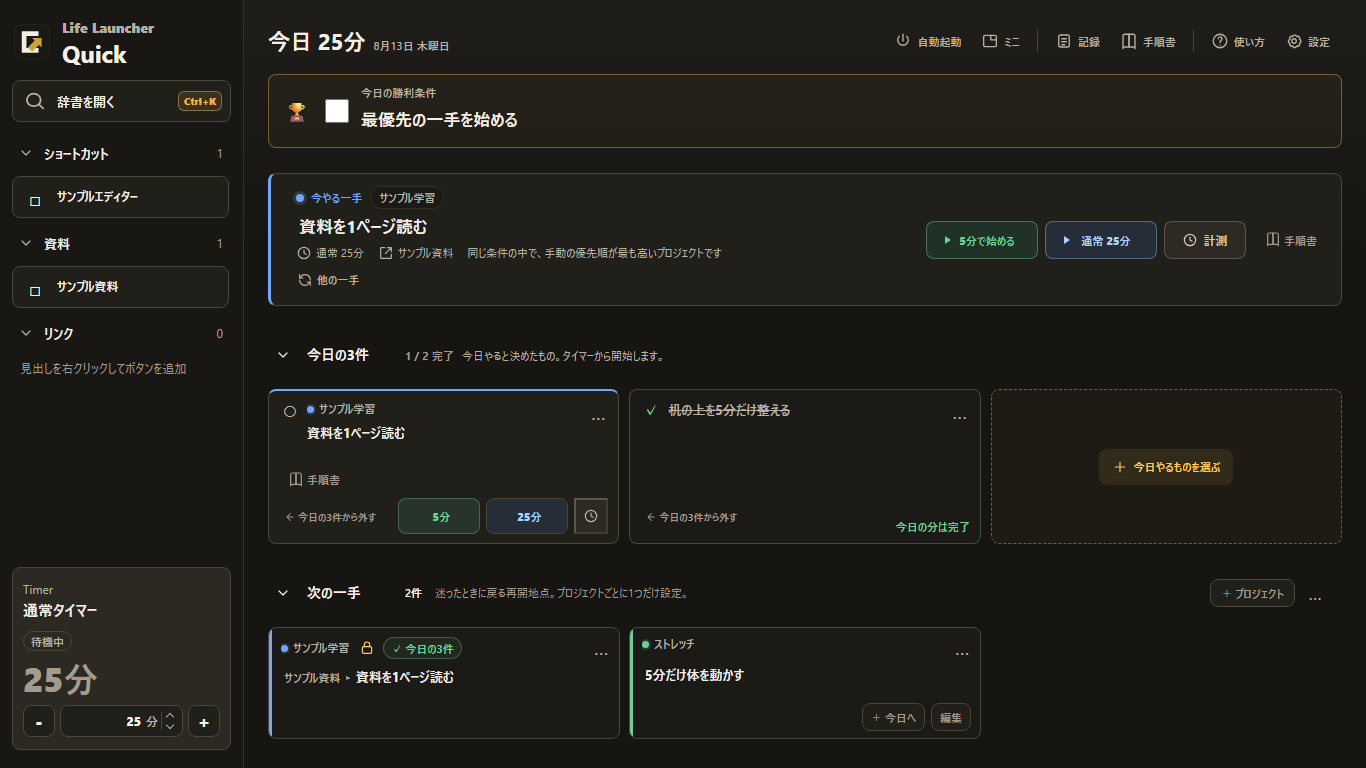
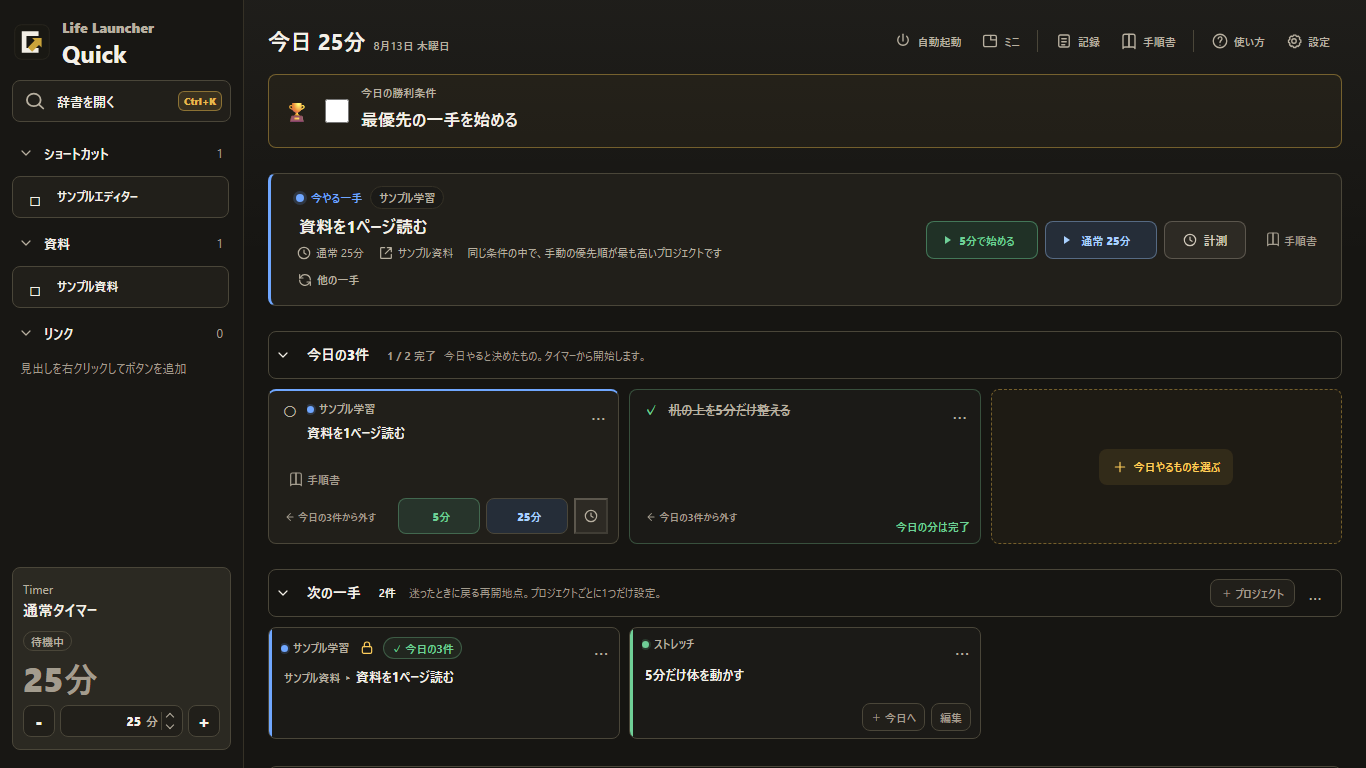
docs(release): v1.4.0 の公開文書と公開スクリーンショットに P9-14 の変更を反映する(P9-12c)
- CHANGELOG・リリースノート・README に、見出し・二重の四角・勝利条件の未入力の3点を足す
- P9-13 の「キーボードで選んだときも反応する」を、内側の輪だけに直す
- main-dashboard と contact-sheet を再生成

Changed region(s): [[0.2767, 0.75, 0.4919, 0.7812], [0.2767, 0.4375, 0.4919, 0.4688]]

diff --git a/docs/release/v1.4.0/release-notes.md b/docs/release/v1.4.0/release-notes.md
@@ -20,9 +20,12 @@
 
 - 表示サイズ「大」「特大」で、今日の勝利条件の文字が標準より小さくなる不具合を直しました。
 - 表示サイズ「大」「特大」で、今日の3件の見出しの説明文が右端に寄っていた不具合(v1.3.4からありました)を直しました。標準と同じく、「1 / 3 完了」のすぐ後ろに表示します。
-- 今日の勝利条件にマウスを乗せたとき(キーボードで選んだときも)、ほかのカードと同じように枠が強まり、少し明るくなって浮くようにしました。達成済みでも同じです。
+- 今日の勝利条件にマウスを乗せたとき、ほかのカードと同じように枠が強まり、少し明るくなって浮くようにしました。達成済みでも同じです。キーボードで選んだときは、枠は変えず、内側の黄色い輪だけを出します。
+- 今日の勝利条件が未入力のときは、マウスを乗せても、起動直後も光らないようにしました。起動直後はそのままEnterで入力を始められます。
+- 今日の3件・次の一手・やりたいこと・今日の実行の見出しの枠を戻し、名前と件数の間を詰め、説明の文字の大きさと色をそろえました。
+- 十字キーやTabで見出し・勝利条件を選んだとき、黄色い四角が二重に出ないようにしました。
 - 追加・編集・設定のボタンは中立色、保存・決定は緑、キャンセルと削除系は赤、実行中・勝利条件・フォーカスは黄色、というように色の役割をそろえました。「バックアップから復元」は赤にしました。
-- 役割のない枠線(上部メニューの外枠、セクションの見出しバー、補助ボタンなど)を減らしました。ボタンの押せる範囲は小さくなっていません。
+- 役割のない枠線(上部メニューの外枠、補助ボタンなど)を減らしました。ボタンの押せる範囲は小さくなっていません。
 - 「今日やるものを選ぶ」画面で、候補が4行以上見えるようにしました。
 
 ## メイン画面・ダイアログ・設定・記録

diff --git a/docs/releases/v1.4.0.md b/docs/releases/v1.4.0.md
@@ -20,9 +20,12 @@
 
 - 表示サイズ「大」「特大」で、今日の勝利条件の文字が標準より小さくなる不具合を直しました。
 - 表示サイズ「大」「特大」で、今日の3件の見出しの説明文が右端に寄っていた不具合(v1.3.4からありました)を直しました。標準と同じく、「1 / 3 完了」のすぐ後ろに表示します。
-- 今日の勝利条件にマウスを乗せたとき(キーボードで選んだときも)、ほかのカードと同じように枠が強まり、少し明るくなって浮くようにしました。達成済みでも同じです。
+- 今日の勝利条件にマウスを乗せたとき、ほかのカードと同じように枠が強まり、少し明るくなって浮くようにしました。達成済みでも同じです。キーボードで選んだときは、枠は変えず、内側の黄色い輪だけを出します。
+- 今日の勝利条件が未入力のときは、マウスを乗せても、起動直後も光らないようにしました。起動直後はそのままEnterで入力を始められます。
+- 今日の3件・次の一手・やりたいこと・今日の実行の見出しの枠を戻し、名前と件数の間を詰め、説明の文字の大きさと色をそろえました。
+- 十字キーやTabで見出し・勝利条件を選んだとき、黄色い四角が二重に出ないようにしました。
 - 追加・編集・設定のボタンは中立色、保存・決定は緑、キャンセルと削除系は赤、実行中・勝利条件・フォーカスは黄色、というように色の役割をそろえました。「バックアップから復元」は赤にしました。
-- 役割のない枠線(上部メニューの外枠、セクションの見出しバー、補助ボタンなど)を減らしました。ボタンの押せる範囲は小さくなっていません。
+- 役割のない枠線(上部メニューの外枠、補助ボタンなど)を減らしました。ボタンの押せる範囲は小さくなっていません。
 - 「今日やるものを選ぶ」画面で、候補が4行以上見えるようにしました。
 
 ## メイン画面・ダイアログ・設定・記録

diff --git a/README.md b/README.md
@@ -59,7 +59,7 @@ Web Demoでは合成データを使い、今日の候補選択・タイマー・
 
 - 今やる一手は、今日の3件に入っている次の一手があれば、それを優先して示します。今やる一手と今日の3件のどちらから開始しても、両方が同じ実行中の表示になります。
 - タイマーの表示(サイドバー・拡大タイマー・ミニタイマー)に、いま取り組んでいる行動の文を表示します。待機中のミニタイマーの重なりも直しました。
-- 表示サイズ「大」「特大」で、今日の勝利条件の文字が小さくなる不具合と、今日の3件の見出しの説明文が右端に寄る不具合を直しました。今日の勝利条件にマウスを乗せたときの反応も、ほかのカードとそろえました。
+- 表示サイズ「大」「特大」で、今日の勝利条件の文字が小さくなる不具合と、今日の3件の見出しの説明文が右端に寄る不具合を直しました。今日の勝利条件にマウスを乗せたときの反応も、ほかのカードとそろえました(未入力のときは光りません)。見出しの枠と文字をそろえ、十字キーやTabで選んだときに黄色い四角が二重に出ないようにしました。
 - ボタンの色の役割をそろえ、役割のない枠線を減らしました。今日やるものを選ぶ画面は、候補がより多く見えるようにしました。
 - メイン画面・ダイアログ・設定・記録画面の細部を整えました(件数の二重表示、「編集」と「別の行動に入れ替える」の使い分け、空のグループの案内、「ミニモード」から「ミニタイマー」への表記統一など)。
 - 依存ライブラリの脆弱性の修正を含みます。config schemaは`3`のままで、機能の追加・データ形式の変更はありません。

diff --git a/README.en.md b/README.en.md
@@ -59,7 +59,7 @@ The screenshots are generated from synthetic data. They do not contain real user
 
 - Do Now now prefers a Next Step that is already in Today's 3. Starting from either Do Now or Today's 3 shows the same running state in both.
 - The Timer (sidebar, expanded Timer, mini timer) now shows the action you are working on. The overlap in the idle mini timer is fixed.
-- Fixed the Victory text becoming smaller, and the Today's 3 heading description being pushed to the right edge, at the Large and Extra Large display sizes. The Victory bar now reacts to hover like the other cards.
+- Fixed the Victory text becoming smaller, and the Today's 3 heading description being pushed to the right edge, at the Large and Extra Large display sizes. The Victory bar now reacts to hover like the other cards (it stays plain while empty). The section heading frames and text are aligned, and keyboard focus on a heading or the Victory bar no longer shows a doubled yellow square.
 - Button colors follow a consistent role, and borders that carry no role were removed. The "choose today's items" screen shows more candidates.
 - Details were polished across the Main screen, dialogs, Settings, and Records (a duplicated count, "Edit" versus "Swap for another action", a guide for empty sidebar groups, "Mini mode" renamed to "mini timer", and more).
 - Includes dependency vulnerability fixes. Config schema stays at `3`, with no new features or data-format changes.

diff --git a/CHANGELOG.md b/CHANGELOG.md
@@ -13,7 +13,10 @@
 
 - 表示サイズ「大」「特大」で、今日の勝利条件の文字が標準より小さくなる不具合を修正。
 - 表示サイズ「大」「特大」で、今日の3件の見出しの説明文が右端に寄っていた不具合(v1.3.4から)を修正し、標準と同じく件数のすぐ後ろに表示するようにした。
-- 今日の勝利条件にマウスを乗せたとき(キーボードで選んだときも)、ほかのカードと同じように枠が強まり、少し明るくなって浮くようにした。
+- 今日の勝利条件にマウスを乗せたとき、ほかのカードと同じように枠が強まり、少し明るくなって浮くようにした。キーボードで選んだときは、枠は変えず内側の黄色い輪だけを出す。
+- 今日の3件・次の一手・やりたいこと・今日の実行の見出しの枠を戻し、名前と件数の間を詰め、説明の文字の大きさと色をそろえた。
+- 十字キーやTabで見出し・勝利条件を選んだとき、黄色い四角が二重に出ないようにした。
+- 今日の勝利条件が未入力のときは、マウスを乗せても、起動直後も光らないようにした(そのままEnterで入力を始められる)。
 
 ### 保守・セキュリティ
 
